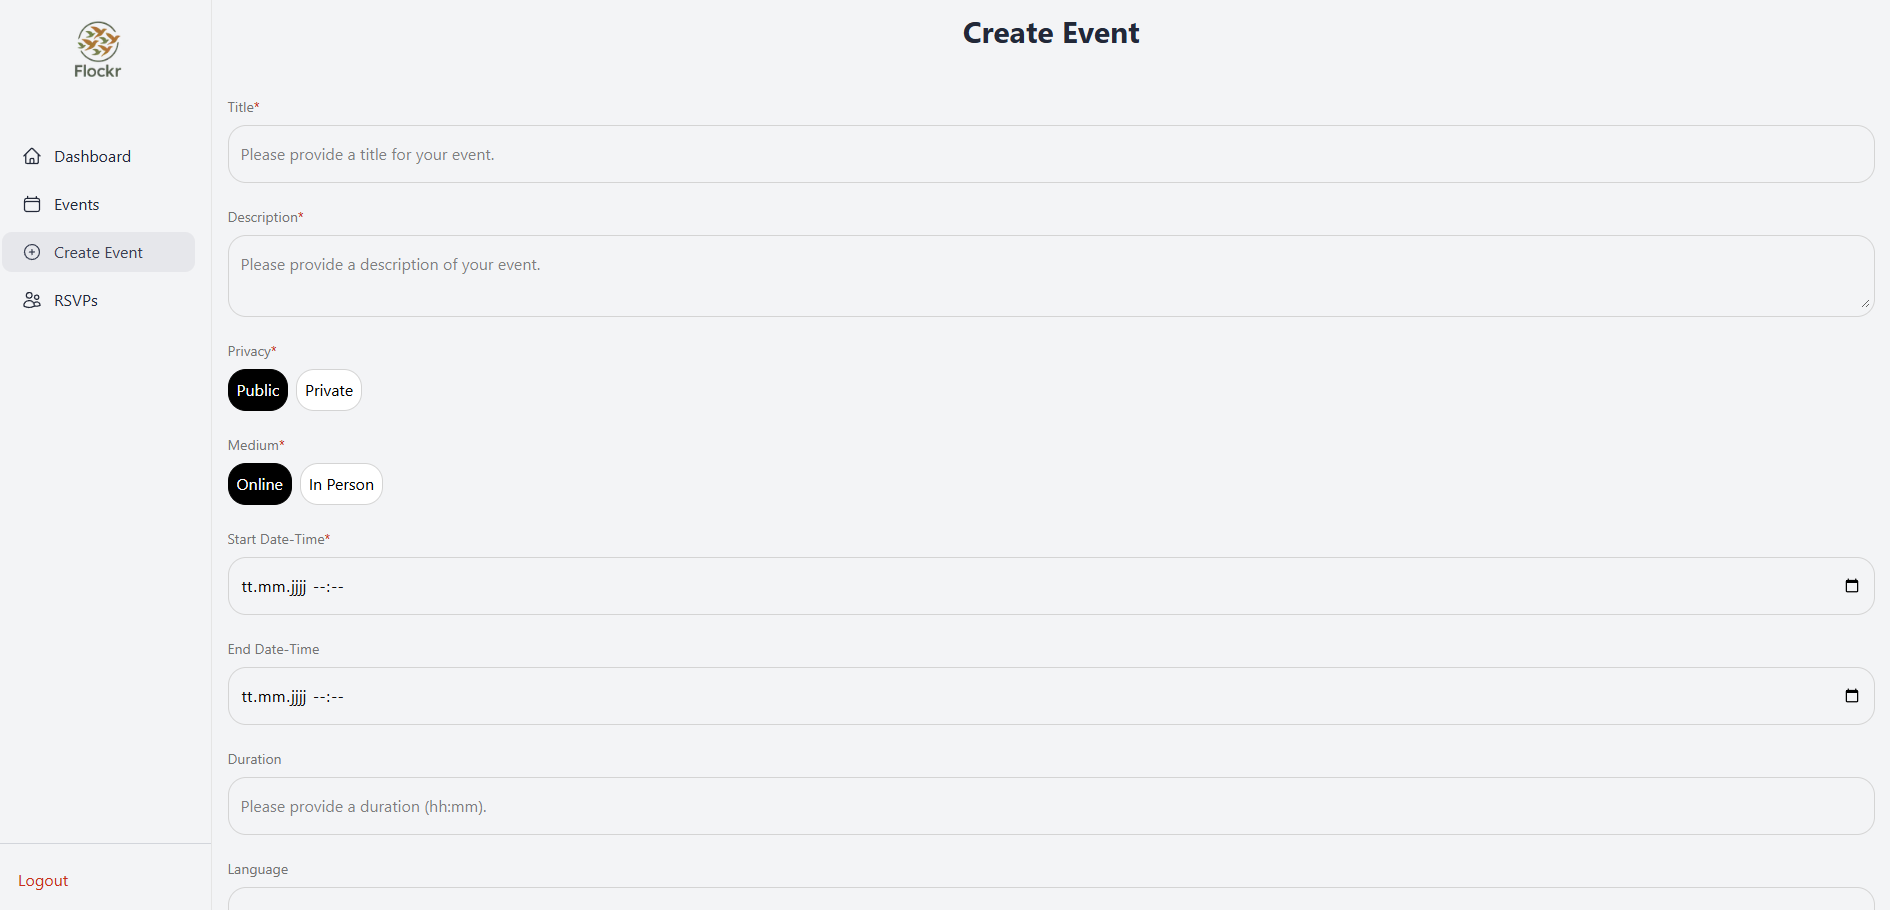
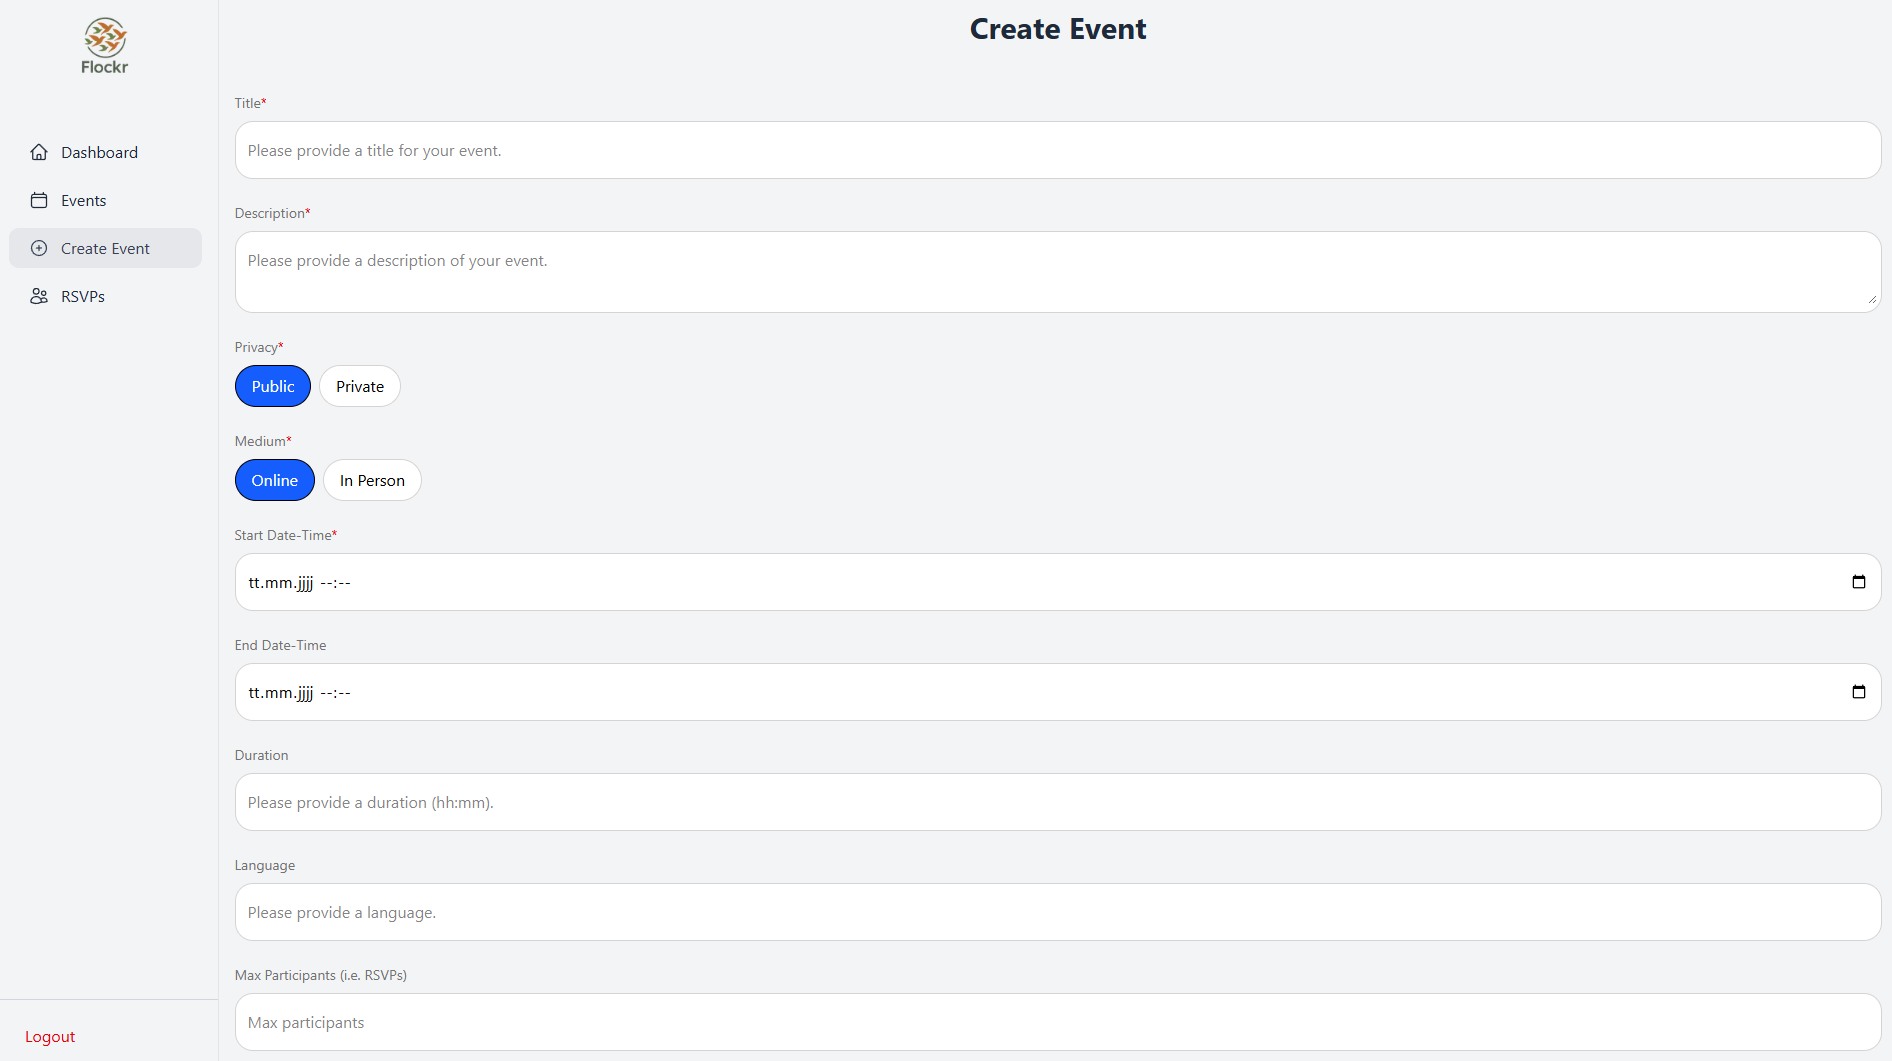
fix: typo in main, update screenshot

diff --git a/src/components/Hero.js b/src/components/Hero.js
@@ -1,7 +1,6 @@
 import Link from "next/link";
 
 export default function Hero({ isAuthenticated }) {
-
   return (
     <div className="relative flex-1 flex flex-col justify-center items-center text-white text-center p-4 gap-5">
       <video
@@ -21,7 +20,7 @@ export default function Hero({ isAuthenticated }) {
           className="text-3xl md:text-6xl font-bold mb-4 text-shadow-pink"
           style={{ textShadow: "2px 1px 1px black" }}
         >
-          Flock Togehter. Wherever You Roam.
+          Flock Together. Wherever You Roam.
         </h1>
         <p
           className="md:text-lg text-accent mb-6 drop-shadow-xl"

diff --git a/src/app/dashboard/rsvp/page.js b/src/app/dashboard/rsvp/page.js
@@ -116,7 +116,7 @@ export default function RSVPPage() {
       <Sidebar />
       <div className="p-4 w-full overflow-y-auto">
         {toastVisible && (
-          <div className="absolute top-4 left-1/2 transform -translate-x-1/2 bg-black text-white px-4 py-2 rounded-md shadow-md">
+          <div className="absolute top-4 left-1/2 transform -translate-x-1/2 bg-green-500 text-white px-4 py-2 rounded-md shadow-md">
             Link copied!
           </div>
         )}
